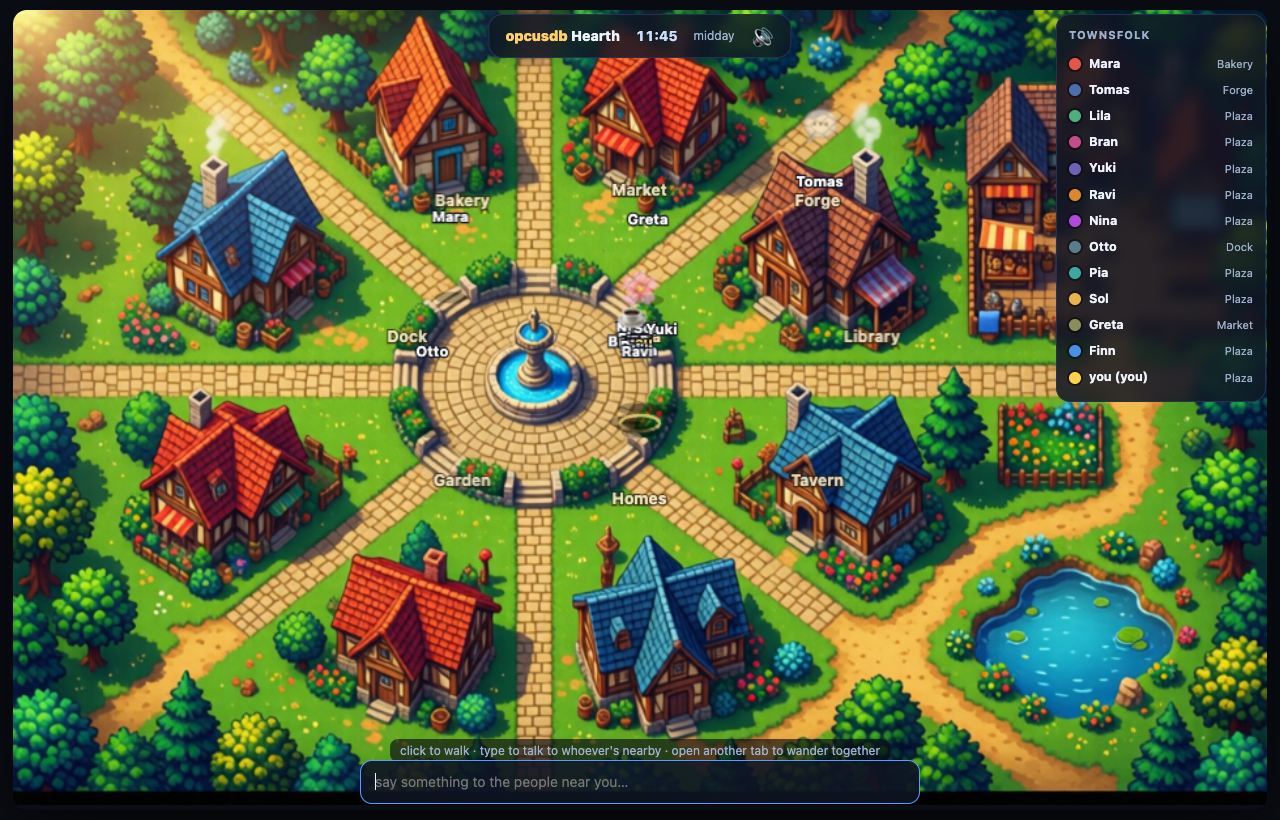
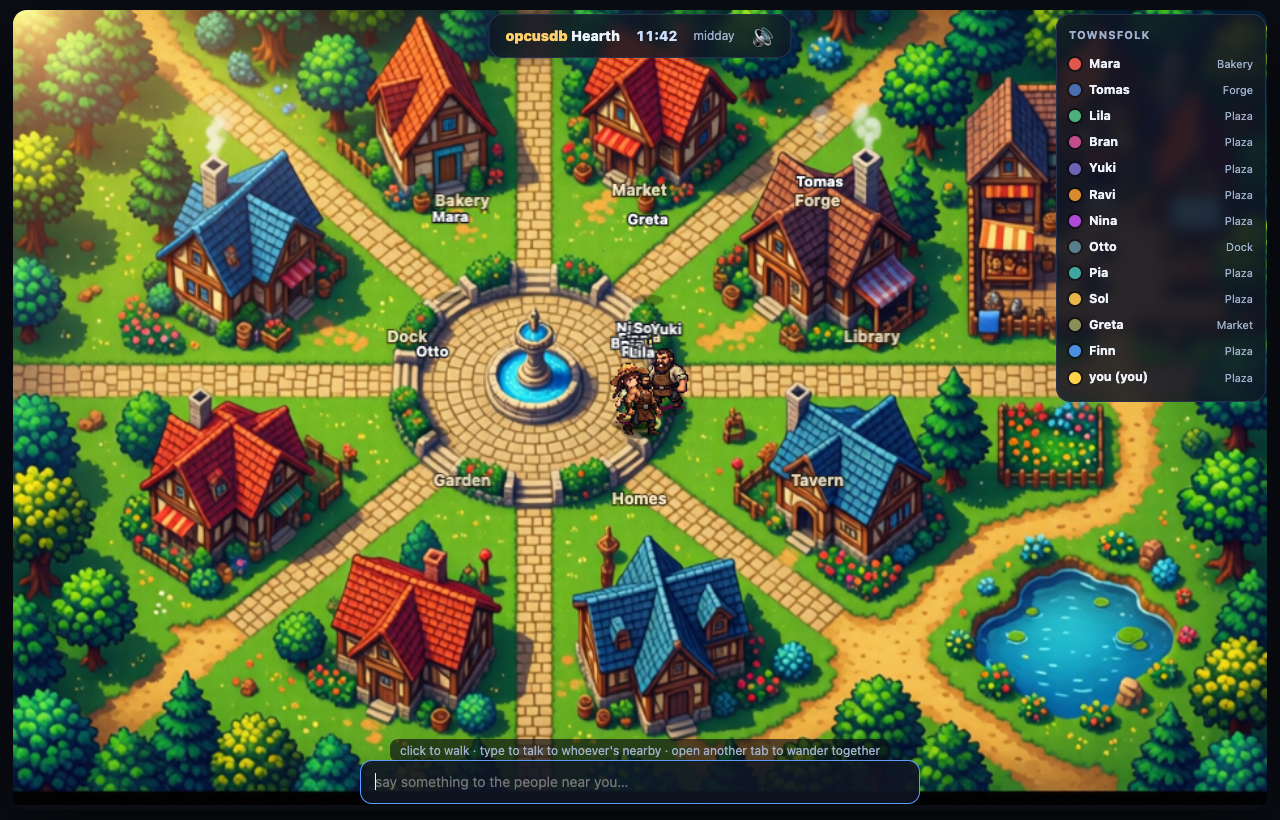
Hearth: live town chatter feed of recent resident lines
Added a small panel in the lower left that logs each new line residents (and you)
say, with the speaker name, keeping the last nine. Now you can follow what the town
is talking about without standing next to every group. It reuses the speech bubble
broadcast, so there is no extra server traffic, and it hides itself when empty.

Changed region(s): [[0.4688, 0.3354, 0.5625, 0.5488], [0.625, 0.122, 0.6562, 0.1829]]

diff --git a/demos/server/web/town.js b/demos/server/web/town.js
@@ -139,7 +139,7 @@ function connect() {
         renderRoster();
       } else if (tag === "b") {
         const active = new Set();
-        for (const s of rest.split(";")) { if (!s) continue; const j = s.indexOf("|"); const id = +s.slice(0, j), text = s.slice(j + 1); active.add(id); setBubble(id, text); }
+        for (const s of rest.split(";")) { if (!s) continue; const j = s.indexOf("|"); const id = +s.slice(0, j), text = s.slice(j + 1); active.add(id); setBubble(id, text); logChatter(id, text); }
         for (const ch of [...bubbleL.children]) { const id = +ch.name.slice(1); if (!active.has(id)) bubbleL.removeChild(ch); }
       }
     }
@@ -276,6 +276,19 @@ function renderRoster() {
   }).join("");
 }
 const esc = (s) => (s || "").replace(/[&<>]/g, c => ({ "&": "&amp;", "<": "&lt;", ">": "&gt;" }[c]));
+
+// live town chatter feed: log each new line a resident says so you can follow the
+// town's conversations without standing next to everyone.
+const lastLine = new Map();
+let chatter = [];
+function nameOf(id) { const r = roster.find(r => r.id === id); return r ? r.name : "someone"; }
+function logChatter(id, text) {
+  if (!text || lastLine.get(id) === text) return;
+  lastLine.set(id, text);
+  chatter.push({ name: nameOf(id), text });
+  if (chatter.length > 9) chatter.shift();
+  const el = $("chatter"); if (el) el.innerHTML = chatter.map(c => `<div class="cl"><b>${esc(c.name)}</b> ${esc(c.text)}</div>`).join("");
+}
 
 // ---- input ----------------------------------------------------------------
 app.view.addEventListener("click", (e) => {

diff --git a/demos/server/web/town.html b/demos/server/web/town.html
@@ -31,6 +31,9 @@
       .panel h1{ margin:0 0 6px; font-size:26px; } .panel h1 b{ color:#ffcf6b; } .panel p{ color:var(--mut); }
       .panel input{ width:100%; font:inherit; text-align:center; padding:11px; margin:14px 0 8px; border-radius:10px; border:1px solid #2b3956; background:#121a2c; color:var(--ink); }
       .panel button{ width:100%; font:inherit; font-weight:800; padding:12px; border:0; border-radius:12px; cursor:pointer; background:linear-gradient(180deg,#ffcf6b,#f0a93a); color:#241600; }
+      #chatter{ position:fixed; left:14px; bottom:14px; width:286px; max-height:34vh; overflow:hidden; z-index:5; background:#0e1422cc; backdrop-filter:blur(6px); border:1px solid #26314a; border-radius:12px; padding:8px 11px; font-size:12px; color:#cdd8ee; }
+      #chatter .cl{ margin:3px 0; line-height:1.35; } #chatter .cl b{ color:#ffcf6b; }
+      #chatter:empty{ display:none; }
     </style>
   </head>
   <body>
@@ -41,6 +44,7 @@
       <button id="mute" title="ambient music" style="background:none;border:0;color:#cfe0ff;font-size:16px;cursor:pointer;padding:0 2px">🔈</button>
     </div>
     <div id="roster"><h4>Townsfolk</h4><div id="rlist"></div></div>
+    <div id="chatter"></div>
     <div id="hint">click to walk · type to talk to whoever's nearby · open another tab to wander together</div>
     <div id="chatbar"><input id="say" maxlength="160" placeholder="say something to the people near you…" /></div>
     <div id="join"><div class="panel">